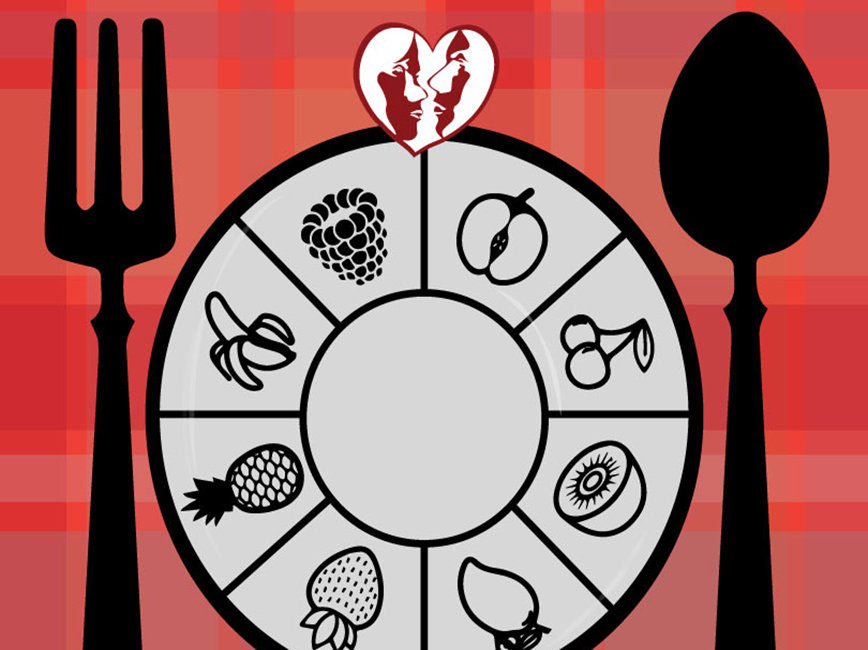
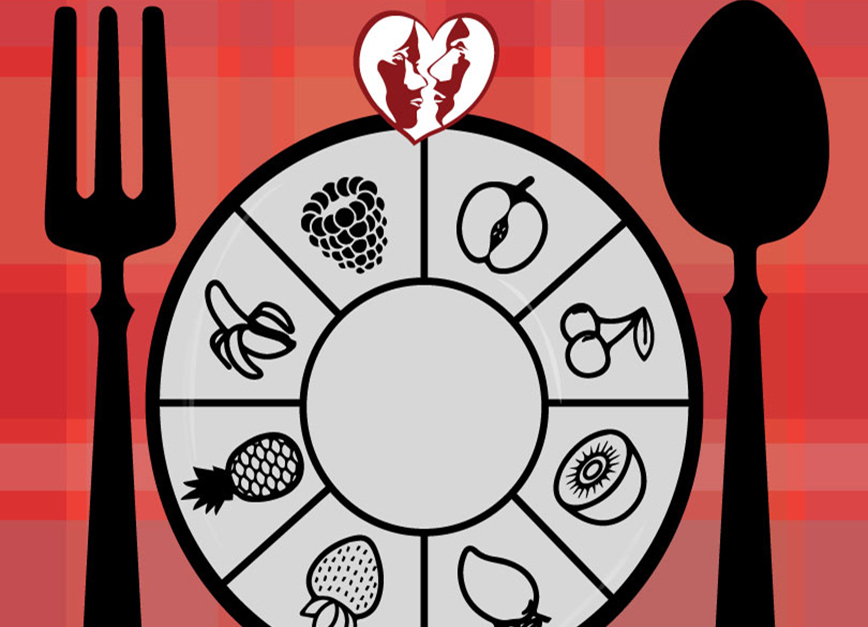
image-size

diff --git a/index.html b/index.html
@@ -76,7 +76,7 @@
                   <i class="fa fa-search-plus fa-3x"></i>
                 </div>
               </div>
-              <img class="img-fluid" src="img/portfolio/Flavors-thumb.jpg" alt="" height="252.767px">
+              <img class="img-fluid" src="img/portfolio/Flavors-thumb.jpg" alt="">
             </a>
           </div>
           <div class="col-sm-4 portfolio-item">
